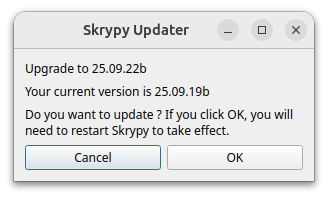
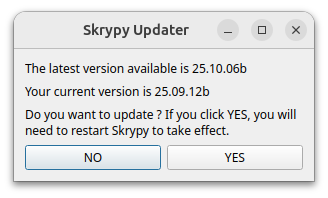
update software (see README)

diff --git a/docs/html/searchindex.js b/docs/html/searchindex.js
@@ -1,1 +1,1 @@
-Search.setIndex({"alltitles":{"(documentation still in development)":[[1,"documentation-still-in-development"]],"AFNI":[[3,"afni"]],"ANTs":[[3,"ants"]],"Alternative execution":[[10,"alternative-execution"]],"Beginner Skrypy tutorial":[[9,null]],"Blocks":[[1,null]],"Cluster (HPC)":[[2,null]],"Clusters configuration":[[2,"clusters-configuration"]],"Configuration example":[[3,"configuration-example"]],"Download the installer":[[4,"download-the-installer"]],"Environment variables":[[3,"environment-variables"]],"Execution on a cluster":[[10,"execution-on-a-cluster"]],"FSL":[[3,"fsl"]],"Features":[[1,"features"]],"Frozen Delights!":[[8,"id1"]],"Function parameters":[[0,"function-parameters"]],"Function return types":[[0,"function-return-types"]],"Getting started":[[1,null]],"How to create a block":[[0,null]],"How to install Python packages":[[5,null]],"How to install Skrypy":[[4,null]],"How to install dependencies":[[3,null]],"How to upgrade Skrypy":[[7,null]],"How to use":[[11,"how-to-use"]],"ImageJ":[[3,"imagej"]],"Install":[[1,null],[4,"install"]],"List of pre-installed Python packages":[[8,null]],"Local execution":[[10,"local-execution"]],"MRTrix3":[[3,"mrtrix3"]],"Matlab":[[3,"matlab"]],"Matlab engine":[[3,"matlab-engine"]],"Miniconda":[[6,"miniconda"]],"Python":[[6,"python"]],"RS2":[[3,"rs2"]],"Reference":[[1,null]],"Requirements":[[6,null]],"Running Skrypy":[[10,null]],"SPM (requires MATLAB)":[[3,"spm-requires-matlab"]],"SSHPass":[[6,"sshpass"]],"Shared memory for inter-process":[[11,null]],"Table of Contents":[[1,"table-of-contents"]],"Test":[[4,"test"]],"The options":[[0,"the-options"]],"The source codes":[[0,"the-source-codes"]],"Very simple example":[[9,"very-simple-example"]],"Welcome to the Skrypy documentation!":[[1,null]]},"docnames":["blocks/create_blocks","index","installation/cluster","installation/install_dependencies","installation/install_skrypy","installation/package_install","installation/requirements","installation/update_skrypy","reference/preinstalled_packages_list","start/demo_1","start/running_skrypy","start/shared_memory"],"envversion":{"sphinx":65,"sphinx.domains.c":3,"sphinx.domains.changeset":1,"sphinx.domains.citation":1,"sphinx.domains.cpp":9,"sphinx.domains.index":1,"sphinx.domains.javascript":3,"sphinx.domains.math":2,"sphinx.domains.python":4,"sphinx.domains.rst":2,"sphinx.domains.std":2},"filenames":["blocks/create_blocks.rst","index.rst","installation/cluster.rst","installation/install_dependencies.rst","installation/install_skrypy.rst","installation/package_install.rst","installation/requirements.rst","installation/update_skrypy.rst","reference/preinstalled_packages_list.rst","start/demo_1.rst","start/running_skrypy.rst","start/shared_memory.rst"],"indexentries":{},"objects":{},"objnames":{},"objtypes":{},"terms":{"":[2,4],"0":[0,3,8],"1":[0,2,3,8],"10":8,"10gb":4,"11":[3,8],"12":[4,6,8],"13":8,"14":8,"15":[3,8],"17":8,"19":8,"2":[2,3,5,8,11],"2020":8,"2025":8,"23":8,"24":3,"25":8,"26":8,"2d":1,"3":[3,4,6,8],"312":4,"3d":8,"4":8,"45":8,"46":8,"48":8,"5":[3,8],"51":8,"55":[0,8],"5d":1,"6":[6,8],"61":8,"7":[3,8],"8":[3,8],"88":8,"9":[3,8],"A":[0,2,5,7,8,10],"As":2,"At":4,"But":1,"For":[0,1,3],"If":[0,1,6],"In":[1,3,5,7,9],"It":[1,4],"Its":1,"On":5,"The":[2,3,8,11],"To":[3,4,5,6],"__init__":0,"abin":3,"about":4,"access":[2,8,11],"accord":3,"achieva":1,"activ":[2,3,5,6],"add":[0,1,3,6],"administr":2,"advanc":8,"afni_root":3,"after":11,"algebra":8,"algorithm":8,"alias":4,"all":[0,3,4,6,10],"allow":[1,2,6,10,11],"alreadi":5,"also":[0,1,2],"alwai":3,"an":[1,3,6,8,10],"anaconda":6,"analysi":8,"analyz":1,"annot":0,"anoth":3,"ant":1,"ants_root":3,"antspath":3,"antspyx":8,"api":8,"app":3,"applic":[1,3,4,6,8],"approach":1,"apt":[3,6],"ar":[0,2,4,5,11],"arrai":8,"array_bool":0,"array_float":0,"array_int":0,"array_path":0,"array_str":0,"art":8,"aspect":1,"astronomi":8,"astrophys":8,"astropi":8,"attr":8,"attribut":8,"avoid":11,"b":0,"backend":8,"base":3,"bash":6,"bashrc":[1,3,4],"been":[3,5],"befor":2,"begin":3,"beginn":1,"below":[3,9],"best":3,"between":[1,6,8,11],"bid":8,"bin":[3,5],"bind":8,"block":[9,10,11],"blosc2":[3,8],"boilerpl":8,"bool":0,"both":11,"bound":8,"box":2,"box_dialog_fil":9,"brain":8,"bruker":1,"build":[3,8],"bulk":1,"bvf":1,"c":[0,3,8],"ca":8,"calcul":1,"can":[0,1,2,6,9],"capabl":2,"care":3,"carefulli":6,"case":0,"cbf":1,"cd":[3,4,5,6],"chang":5,"chapter":4,"check":[2,6],"choic":1,"choos":[3,4,10],"chosen":6,"class":[0,8],"clean":1,"clearli":2,"click":7,"client":[1,11],"clone":3,"close":[3,6],"cloud":8,"cluster":[1,3,11],"code":[1,4,8],"com":[3,6],"combin":1,"combobox":1,"command":[2,8],"comment":0,"compat":8,"compil":8,"complet":8,"compress":8,"comput":8,"concaten":3,"conda":[2,3,6],"configur":[1,5],"conform":8,"connect":[2,9],"consol":11,"constant":1,"constraint":8,"contain":4,"convert":8,"copi":3,"core":8,"correct":6,"correspond":0,"cpu":[2,3],"cpuonli":3,"creat":[1,3,4],"cross":8,"cryptograph":8,"cryptographi":8,"ctrl":10,"ctype":8,"cuda":[3,8],"current":10,"curv":2,"cython":8,"data":[1,2,8,11],"databas":8,"dataset":8,"dcmstack":8,"deactiv":6,"deadsnak":6,"decompress":3,"deep":[1,8],"def":0,"default":0,"defin":0,"definit":0,"demo":9,"demo1":9,"depend":[1,2,6],"descript":8,"dev":3,"develop":8,"diagram":[1,2,10,11],"dicom":[1,8],"dict":0,"differ":[1,10,11],"diffus":1,"directli":0,"directori":[0,2,3,8],"dirsync":8,"displai":[2,11],"distribut":8,"do":1,"document":3,"doe":3,"don":6,"done":[1,2,11],"download":[3,8],"drag":9,"drive":8,"drop":9,"e":3,"easier":8,"easili":1,"edit":3,"editor":1,"eg":3,"egg":3,"einop":8,"element":1,"end":4,"engin":[1,6,8],"ensur":11,"enter":2,"entri":3,"env":3,"env_paramet":3,"environ":[1,2,4,6,11],"etc":[1,3,4],"even":1,"everi":1,"everyon":8,"exampl":[1,2],"except":0,"exchang":[1,11],"execut":[1,2],"exist":2,"exit":3,"expect":2,"explain":[0,10],"export":3,"extend":8,"extens":8,"extern":3,"fast":8,"field":2,"figur":2,"file":[0,1,3,4,8],"fileio":9,"fill":[1,2],"filter":1,"find":[0,3],"first":6,"fish":6,"flavour":8,"flexibl":8,"float":0,"folder":[0,3,4,8],"format":8,"forward":2,"found":[3,11],"framework":[1,8],"freesurf":3,"freesurfer_hom":3,"from":[0,3,8],"fsl":1,"fsl_root":3,"fslconf":3,"fsley":1,"function":1,"fundament":8,"g":3,"gdown":8,"gener":8,"get":[3,6,8],"git":3,"github":3,"give":3,"glnxa64":3,"go":[2,4,5,9],"googl":8,"gpu":8,"gputil":8,"graphic":[1,2],"guarante":2,"h5py":8,"ha":3,"have":[5,6],"hdf5":8,"help":[0,1,7,8],"helper":8,"here":[0,3],"hidden":3,"home":[3,4,6],"host":2,"hostnam":2,"how":[1,9,10],"hpc":1,"http":[3,6],"i":[0,1,2,3,4,6,8,11],"idea":3,"ignit":8,"imag":[1,2,8],"imagej":[1,8],"imagej_root":3,"img":0,"import":[1,8],"indic":10,"init":6,"insight":8,"instal":[2,6],"instruct":2,"int":0,"intend":1,"inter":1,"interact":[1,8],"interactivli":6,"interfac":8,"intuit":1,"itk":8,"its":2,"jar":3,"java":3,"jax":8,"joint":0,"json":3,"kept":8,"kera":8,"languag":8,"latest":[4,6],"launch":[4,5,9,10],"ld_library_path":3,"learn":[1,8],"least":[6,8],"lib":[3,8],"libeigen3":3,"libfftw3":3,"libgl1":3,"libpng":3,"libqt5opengl5":3,"libqt5svg5":3,"librari":[0,1,8,9,11],"libtiff5":3,"lifecycl":8,"lightn":8,"lightweight":8,"like":2,"line":[3,8],"linux":6,"list":[0,1,2,6],"list_bool":0,"list_float":0,"list_int":0,"list_path":0,"list_str":0,"littl":4,"llvm":8,"lmdb":8,"lmfit":8,"load":3,"local":[1,2,3],"locat":[0,3,4],"logic":1,"loop":1,"m":[3,10],"machin":[8,11],"magnet":8,"main":[3,4],"make":[8,9],"manag":[0,1,2,5],"mani":1,"matlab":[1,6],"matlab_root":3,"matlabcmd":3,"matlabengin":3,"matlabpath":3,"matlabroot":3,"matplotlib":8,"max":2,"maximum":2,"medic":8,"meet":8,"memori":1,"menu":[2,7],"mesa":3,"method":[5,6],"mine":8,"miniconda3":6,"minim":8,"miss":1,"mkdir":6,"mlflow":8,"mode":[1,2,10],"model":8,"modif":2,"modul":[0,8],"monitor":8,"more":[1,8],"mp4":9,"mrdegibbs3d":3,"mri":1,"mri_conv":3,"mrifilemanag":3,"mrifilepath":3,"mrimanag":3,"mrtrix":1,"mrtrix_root":3,"mrview":[1,3],"mss":8,"multi":8,"multipl":[8,10],"multiprocess":[1,2],"multithread":[1,10],"multitud":8,"must":[0,8],"myfunct":0,"n":3,"n4bia":1,"name":2,"nano":3,"ndarrai":8,"necessari":0,"need":3,"network":8,"neural":8,"neuroimag":8,"neurosci":8,"new":[0,2,8],"nibabel":8,"nifti":[1,8],"nilearn":8,"nipi":8,"nipyp":[0,1,8],"nitim":8,"niworkflow":8,"nodeeditor":0,"non":6,"nose":8,"note":8,"nrrd":8,"null":0,"numba":8,"number":2,"numpi":[4,8],"nvida":8,"nvidia":[3,8],"o":[1,3,4],"object":8,"observ":8,"offer":1,"ok":7,"olivi":3,"one":3,"onli":[3,11],"open":[0,2,4,5,7,8,10],"opencv":8,"oper":8,"option":2,"order":10,"other":[1,5],"otherwis":6,"out_result":0,"own":1,"packag":[1,3,4],"page":[0,9,10],"panda":8,"parallel":10,"paramet":[1,11],"particular":1,"password":[2,6],"path":[0,2,3,4],"pathdef":3,"pc":[2,10],"perform":[2,8],"philip":1,"pip":3,"pip3":5,"pipelin":[1,8,9],"plan":6,"platform":8,"plot":8,"plotter":8,"point":[3,8],"power":8,"ppa":6,"pre":[1,2],"primarili":1,"primit":8,"principl":3,"probe":9,"procedur":2,"process":[1,2,3,8,10],"processor":10,"product":8,"program":[1,3],"prompt_toolkit":8,"properli":4,"provid":[6,8,11],"psutil":8,"public":8,"pure":8,"purpos":1,"put":[2,3],"py":[0,3,4],"py3":3,"pybid":8,"pynrrd":8,"pyqt5":[1,8],"pytest":8,"python":[0,1,3,4],"python3":[3,4,6],"pytorch":[3,8],"pyvista":8,"pyvistaqt":8,"qt":8,"r":[3,10],"r2020a":3,"r2021a":3,"r2022b":3,"r2024b":3,"rai":8,"read":8,"read_roi":8,"recip":8,"recommend":6,"reduc":10,"redund":11,"registr":[1,2,8],"reload":4,"renam":1,"reopen":6,"repo":6,"repositori":6,"repres":0,"requir":[1,4,11],"reson":8,"restart":7,"result":[0,2,11],"return":2,"rich":1,"right":6,"rodent":3,"roi":8,"root":4,"root_of_skrypy_venv":0,"routin":1,"rss":[2,3],"run":[1,2,9,11],"same":[2,11],"save":[2,3,4],"scientif":8,"scikit":8,"scipi":8,"scp":1,"screenshot":8,"script":[1,8],"see":[2,3,4,9],"segment":[1,8],"select":6,"self":0,"sequenti":[1,10],"seri":8,"set":8,"set_path":3,"setup":[3,4],"sever":[1,2,10],"sh":[3,6],"share":1,"shared_memori":11,"shared_read":11,"sharedmemory_cr":11,"shell":2,"should":[2,6],"show":9,"simpl":[0,8],"simpleitk":8,"simplifi":8,"simul":1,"sip":8,"site":3,"skrypi":[0,2,3,5,6,11],"skrypy_312":[4,9],"skrypy_312_instal":4,"skrypy_312_packag":4,"skrypy_312_test":4,"skrypy_root":[3,5],"skrypy_venv":[3,4],"skrypy_venv_312":5,"skull":3,"skullstrip":1,"skype":9,"smi":8,"smooth":1,"softwar":1,"solut":3,"some":[5,6],"sourc":[2,3,4,5,8],"specif":[1,3],"specifi":[0,2,4],"spectra":1,"spinbox":1,"spm12":3,"spm_path":3,"squar":8,"ssh":6,"stack":8,"standard":10,"start":3,"state":8,"statist":8,"statu":8,"step":4,"store":0,"str":0,"strip":3,"structur":[1,8,9],"sudo":[3,6],"suffici":3,"support":[6,8],"sympi":8,"synchronis":8,"syntax":8,"system":8,"t":[6,10],"t1map":1,"t2map":1,"take":[3,4],"taken":0,"task":1,"temporari":[3,4],"tensorflow":[4,8],"tensorkit":8,"term":0,"termin":[3,4,5,6],"test":[1,2,6,8],"textedit":1,"textual":1,"thei":11,"them":11,"thi":[0,1,2,3,4,6,8,9,10,11],"time":[4,8,10],"timeseri":8,"titl":0,"tk":8,"tool":[1,8,9],"toolbox":3,"toolkit":8,"torch":8,"torchaudio":3,"torchvis":[3,8],"touch":1,"tractographi":1,"train":8,"trait":8,"transfer":[1,2],"transform":8,"treatment":2,"tree":8,"try":6,"tupl":0,"tutori":1,"txt":3,"type":[3,4,8],"ultra":8,"uncompress":3,"unif":1,"unittest":8,"univers":8,"unzip":[3,4],"up":4,"updat":[6,7],"upgrad":1,"us":[0,1,2,6,8,9,10],"user":[2,3,4,6],"usernam":3,"usr":3,"util":6,"valu":[0,9],"variabl":1,"vedo":8,"veri":1,"version":[3,4,5,6,8],"via":1,"video":[8,9],"virtual":[1,4,6],"virtualenv":1,"visual":[1,8],"volum":8,"vtk":8,"wai":[10,11],"wget":6,"when":[3,5],"where":[2,3,4],"which":[0,1,3,6,8],"window":[2,5,7,10],"within":11,"without":[1,8],"work":4,"workflow":8,"workspac":2,"wrapper":8,"write":8,"written":[0,4],"x":6,"x11":2,"x86_64":6,"yaml":0,"you":[0,1,2,6,9,10],"your":[1,2,3,4,5,6,10],"your_conda_path":3,"your_temporary_fold":3,"zip":[3,4,8],"zlib1g":3},"titles":["How to create a block","Welcome to the Skrypy documentation!","Cluster (HPC)","How to install dependencies","How to install Skrypy","How to install Python packages","Requirements","How to upgrade Skrypy","List of pre-installed Python packages","Beginner Skrypy tutorial","Running Skrypy","Shared memory for inter-process"],"titleterms":{"The":0,"afni":3,"altern":10,"ant":3,"beginn":9,"block":[0,1],"cluster":[2,10],"code":0,"configur":[2,3],"content":1,"creat":0,"delight":8,"depend":3,"develop":1,"document":1,"download":4,"engin":3,"environ":3,"exampl":[3,9],"execut":10,"featur":1,"frozen":8,"fsl":3,"function":0,"get":1,"how":[0,3,4,5,7,11],"hpc":2,"imagej":3,"instal":[1,3,4,5,8],"inter":11,"list":8,"local":10,"matlab":3,"memori":11,"miniconda":6,"mrtrix3":3,"option":0,"packag":[5,8],"paramet":0,"pre":8,"process":11,"python":[5,6,8],"refer":1,"requir":[3,6],"return":0,"rs2":3,"run":10,"share":11,"simpl":9,"skrypi":[1,4,7,9,10],"sourc":0,"spm":3,"sshpass":6,"start":1,"still":1,"tabl":1,"test":4,"tutori":9,"type":0,"upgrad":7,"us":11,"variabl":3,"veri":9,"welcom":1}})
+Search.setIndex({"alltitles":{"(documentation still in development)":[[1,"documentation-still-in-development"]],"AFNI":[[3,"afni"]],"ANTs":[[3,"ants"]],"Alternative execution":[[10,"alternative-execution"]],"Beginner Skrypy tutorial":[[9,null]],"Blocks":[[1,null]],"Cluster (HPC)":[[2,null]],"Clusters configuration":[[2,"clusters-configuration"]],"Configuration example":[[3,"configuration-example"]],"Download the installer":[[4,"download-the-installer"]],"Environment variables":[[3,"environment-variables"]],"Execution on a cluster":[[10,"execution-on-a-cluster"]],"FSL":[[3,"fsl"]],"Features":[[1,"features"]],"Frozen Delights!":[[8,"id1"]],"Function parameters":[[0,"function-parameters"]],"Function return types":[[0,"function-return-types"]],"Getting started":[[1,null]],"How to create a block":[[0,null]],"How to install Python packages":[[5,null]],"How to install Skrypy":[[4,null]],"How to install dependencies":[[3,null]],"How to upgrade Skrypy":[[7,null]],"How to use":[[11,"how-to-use"]],"ImageJ":[[3,"imagej"]],"Install":[[1,null],[4,"install"]],"List of pre-installed Python packages":[[8,null]],"Local execution":[[10,"local-execution"]],"MRTrix3":[[3,"mrtrix3"]],"Matlab":[[3,"matlab"]],"Matlab engine":[[3,"matlab-engine"]],"Miniconda":[[6,"miniconda"]],"Python":[[6,"python"]],"RS2":[[3,"rs2"]],"Reference":[[1,null]],"Requirements":[[6,null]],"Running Skrypy":[[10,null]],"SPM (requires MATLAB)":[[3,"spm-requires-matlab"]],"SSHPass":[[6,"sshpass"]],"Shared memory for inter-process":[[11,null]],"Table of Contents":[[1,"table-of-contents"]],"Test":[[4,"test"]],"The options":[[0,"the-options"]],"The source codes":[[0,"the-source-codes"]],"Very simple example":[[9,"very-simple-example"]],"Welcome to the Skrypy documentation!":[[1,null]]},"docnames":["blocks/create_blocks","index","installation/cluster","installation/install_dependencies","installation/install_skrypy","installation/package_install","installation/requirements","installation/update_skrypy","reference/preinstalled_packages_list","start/demo_1","start/running_skrypy","start/shared_memory"],"envversion":{"sphinx":65,"sphinx.domains.c":3,"sphinx.domains.changeset":1,"sphinx.domains.citation":1,"sphinx.domains.cpp":9,"sphinx.domains.index":1,"sphinx.domains.javascript":3,"sphinx.domains.math":2,"sphinx.domains.python":4,"sphinx.domains.rst":2,"sphinx.domains.std":2},"filenames":["blocks/create_blocks.rst","index.rst","installation/cluster.rst","installation/install_dependencies.rst","installation/install_skrypy.rst","installation/package_install.rst","installation/requirements.rst","installation/update_skrypy.rst","reference/preinstalled_packages_list.rst","start/demo_1.rst","start/running_skrypy.rst","start/shared_memory.rst"],"indexentries":{},"objects":{},"objnames":{},"objtypes":{},"terms":{"":[2,4],"0":[0,3,8],"1":[0,2,3,8],"10":8,"10gb":4,"11":[3,8],"12":[4,6,8],"13":8,"14":8,"15":[3,8],"17":8,"19":8,"2":[2,3,5,8,11],"2020":8,"2025":8,"23":8,"24":3,"25":8,"26":8,"2d":1,"3":[3,4,6,8],"312":4,"3d":8,"4":8,"45":8,"46":8,"48":8,"5":[3,8],"51":8,"55":[0,8],"5d":1,"6":[6,8],"61":8,"7":[3,8],"8":[3,8],"88":8,"9":[3,8],"A":[0,2,5,7,8,10],"As":2,"At":4,"But":1,"For":[0,1,3],"If":[0,1,6],"In":[1,3,5,7,9],"It":[1,4],"Its":1,"NO":7,"On":5,"The":[2,3,8,11],"To":[3,4,5,6],"__init__":0,"abin":3,"about":4,"access":[2,8,11],"accord":3,"achieva":1,"activ":[2,3,5,6],"add":[0,1,3,6],"administr":2,"advanc":8,"afni_root":3,"after":11,"algebra":8,"algorithm":8,"alias":4,"all":[0,3,4,6,10],"allow":[1,2,6,10,11],"alreadi":5,"also":[0,1,2],"alwai":3,"an":[1,3,6,8,10],"anaconda":6,"analysi":8,"analyz":1,"annot":0,"anoth":3,"ant":1,"ants_root":3,"antspath":3,"antspyx":8,"api":8,"app":3,"applic":[1,3,4,6,8],"approach":1,"apt":[3,6],"ar":[0,2,4,5,11],"arrai":8,"array_bool":0,"array_float":0,"array_int":0,"array_path":0,"array_str":0,"art":8,"aspect":1,"astronomi":8,"astrophys":8,"astropi":8,"attr":8,"attribut":8,"avoid":11,"b":0,"backend":8,"base":3,"bash":6,"bashrc":[1,3,4],"been":[3,5],"befor":2,"begin":3,"beginn":1,"below":[3,9],"best":3,"between":[1,6,8,11],"bid":8,"bin":[3,5],"bind":8,"block":[9,10,11],"blosc2":[3,8],"boilerpl":8,"bool":0,"both":11,"bound":8,"box":2,"box_dialog_fil":9,"brain":8,"bruker":1,"build":[3,8],"bulk":1,"bvf":1,"c":[0,3,8],"ca":8,"calcul":1,"can":[0,1,2,6,9],"capabl":2,"care":3,"carefulli":6,"case":0,"cbf":1,"cd":[3,4,5,6],"chang":5,"chapter":4,"check":[2,6],"choic":1,"choos":[3,4,10],"chosen":6,"class":[0,8],"clean":1,"clearli":2,"click":7,"client":[1,11],"clone":3,"close":[3,6],"cloud":8,"cluster":[1,3,11],"code":[1,4,8],"com":[3,6],"combin":1,"combobox":1,"command":[2,8],"comment":0,"compat":8,"compil":8,"complet":8,"compress":8,"comput":8,"concaten":3,"conda":[2,3,6],"configur":[1,5],"conform":8,"connect":[2,9],"consol":11,"constant":1,"constraint":8,"contain":4,"convert":8,"copi":3,"core":8,"correct":6,"correspond":0,"cpu":[2,3],"cpuonli":3,"creat":[1,3,4],"cross":8,"cryptograph":8,"cryptographi":8,"ctrl":10,"ctype":8,"cuda":[3,8],"current":10,"curv":2,"cython":8,"data":[1,2,8,11],"databas":8,"dataset":8,"dcmstack":8,"deactiv":6,"deadsnak":6,"decompress":3,"deep":[1,8],"def":0,"default":0,"defin":0,"definit":0,"demo":9,"demo1":9,"depend":[1,2,6],"descript":8,"dev":3,"develop":8,"diagram":[1,2,10,11],"dicom":[1,8],"dict":0,"differ":[1,10,11],"diffus":1,"directli":0,"directori":[0,2,3,8],"dirsync":8,"displai":[2,11],"distribut":8,"do":1,"document":3,"doe":3,"don":6,"done":[1,2,11],"download":[3,8],"drag":9,"drive":8,"drop":9,"e":3,"easier":8,"easili":1,"edit":3,"editor":1,"eg":3,"egg":3,"einop":8,"element":1,"end":4,"engin":[1,6,8],"ensur":11,"enter":2,"entri":3,"env":3,"env_paramet":3,"environ":[1,2,4,6,11],"etc":[1,3,4],"even":1,"everi":1,"everyon":8,"exampl":[1,2],"except":0,"exchang":[1,11],"execut":[1,2],"exist":2,"exit":3,"expect":2,"explain":[0,10],"export":3,"extend":8,"extens":8,"extern":3,"fast":8,"field":2,"figur":2,"file":[0,1,3,4,8],"fileio":9,"fill":[1,2],"filter":1,"find":[0,3],"first":6,"fish":6,"flavour":8,"flexibl":8,"float":0,"folder":[0,3,4,8],"format":8,"forward":2,"found":[3,11],"framework":[1,8],"freesurf":3,"freesurfer_hom":3,"from":[0,3,8],"fsl":1,"fsl_root":3,"fslconf":3,"fsley":1,"function":1,"fundament":8,"g":3,"gdown":8,"gener":8,"get":[3,6,8],"git":3,"github":3,"give":3,"glnxa64":3,"go":[2,4,5,9],"googl":8,"gpu":8,"gputil":8,"graphic":[1,2],"guarante":2,"h5py":8,"ha":3,"have":[5,6],"hdf5":8,"help":[0,1,7,8],"helper":8,"here":[0,3],"hidden":3,"home":[3,4,6],"host":2,"hostnam":2,"how":[1,9,10],"hpc":1,"http":[3,6],"i":[0,1,2,3,4,6,8,11],"idea":3,"ignit":8,"imag":[1,2,8],"imagej":[1,8],"imagej_root":3,"img":0,"import":[1,8],"indic":10,"init":6,"insight":8,"instal":[2,6],"instruct":2,"int":0,"intend":1,"inter":1,"interact":[1,8],"interactivli":6,"interfac":8,"intuit":1,"itk":8,"its":2,"jar":3,"java":3,"jax":8,"joint":0,"json":3,"kept":8,"kera":8,"languag":8,"latest":[4,6],"launch":[4,5,9,10],"ld_library_path":3,"learn":[1,8],"least":[6,8],"lib":[3,8],"libeigen3":3,"libfftw3":3,"libgl1":3,"libpng":3,"libqt5opengl5":3,"libqt5svg5":3,"librari":[0,1,8,9,11],"libtiff5":3,"lifecycl":8,"lightn":8,"lightweight":8,"like":2,"line":[3,8],"linux":6,"list":[0,1,2,6],"list_bool":0,"list_float":0,"list_int":0,"list_path":0,"list_str":0,"littl":4,"llvm":8,"lmdb":8,"lmfit":8,"load":3,"local":[1,2,3],"locat":[0,3,4],"logic":1,"loop":1,"m":[3,10],"machin":[8,11],"magnet":8,"main":[3,4],"make":[8,9],"manag":[0,1,2,5],"mani":1,"matlab":[1,6],"matlab_root":3,"matlabcmd":3,"matlabengin":3,"matlabpath":3,"matlabroot":3,"matplotlib":8,"max":2,"maximum":2,"medic":8,"meet":8,"memori":1,"menu":[2,7],"mesa":3,"method":[5,6],"mine":8,"miniconda3":6,"minim":8,"miss":1,"mkdir":6,"mlflow":8,"mode":[1,2,10],"model":8,"modif":2,"modul":[0,8],"monitor":8,"more":[1,8],"mp4":9,"mrdegibbs3d":3,"mri":1,"mri_conv":3,"mrifilemanag":3,"mrifilepath":3,"mrimanag":3,"mrtrix":1,"mrtrix_root":3,"mrview":[1,3],"mss":8,"multi":8,"multipl":[8,10],"multiprocess":[1,2],"multithread":[1,10],"multitud":8,"must":[0,8],"myfunct":0,"n":3,"n4bia":1,"name":2,"nano":3,"ndarrai":8,"necessari":0,"need":3,"network":8,"neural":8,"neuroimag":8,"neurosci":8,"new":[0,2,8],"nibabel":8,"nifti":[1,8],"nilearn":8,"nipi":8,"nipyp":[0,1,8],"nitim":8,"niworkflow":8,"nodeeditor":0,"non":6,"nose":8,"note":8,"nrrd":8,"null":0,"numba":8,"number":2,"numpi":[4,8],"nvida":8,"nvidia":[3,8],"o":[1,3,4],"object":8,"observ":8,"offer":1,"olivi":3,"one":3,"onli":[3,11],"open":[0,2,4,5,7,8,10],"opencv":8,"oper":8,"option":2,"order":10,"other":[1,5],"otherwis":6,"out_result":0,"own":1,"packag":[1,3,4],"page":[0,9,10],"panda":8,"parallel":10,"paramet":[1,11],"particular":1,"password":[2,6],"path":[0,2,3,4],"pathdef":3,"pc":[2,10],"perform":[2,8],"philip":1,"pip":3,"pip3":5,"pipelin":[1,8,9],"plan":6,"platform":8,"plot":8,"plotter":8,"point":[3,8],"power":8,"ppa":6,"pre":[1,2],"primarili":1,"primit":8,"principl":3,"probe":9,"procedur":2,"process":[1,2,3,8,10],"processor":10,"product":8,"program":[1,3],"prompt_toolkit":8,"properli":4,"provid":[6,8,11],"psutil":8,"public":8,"pure":8,"purpos":1,"put":[2,3],"py":[0,3,4],"py3":3,"pybid":8,"pynrrd":8,"pyqt5":[1,8],"pytest":8,"python":[0,1,3,4],"python3":[3,4,6],"pytorch":[3,8],"pyvista":8,"pyvistaqt":8,"qt":8,"r":[3,10],"r2020a":3,"r2021a":3,"r2022b":3,"r2024b":3,"rai":8,"read":8,"read_roi":8,"recip":8,"recommend":6,"reduc":10,"redund":11,"registr":[1,2,8],"reload":4,"renam":1,"reopen":6,"repo":6,"repositori":6,"repres":0,"requir":[1,4,11],"reson":8,"restart":7,"result":[0,2,11],"return":2,"rich":1,"right":6,"rodent":3,"roi":8,"root":4,"root_of_skrypy_venv":0,"routin":1,"rss":[2,3],"run":[1,2,9,11],"same":[2,11],"save":[2,3,4],"scientif":8,"scikit":8,"scipi":8,"scp":1,"screenshot":8,"script":[1,8],"see":[2,3,4,9],"segment":[1,8],"select":6,"self":0,"sequenti":[1,10],"seri":8,"set":8,"set_path":3,"setup":[3,4],"sever":[1,2,10],"sh":[3,6],"share":1,"shared_memori":11,"shared_read":11,"sharedmemory_cr":11,"shell":2,"should":[2,6],"show":9,"simpl":[0,8],"simpleitk":8,"simplifi":8,"simul":1,"sip":8,"site":3,"skrypi":[0,2,3,5,6,11],"skrypy_312":[4,9],"skrypy_312_instal":4,"skrypy_312_packag":4,"skrypy_312_test":4,"skrypy_root":[3,5],"skrypy_venv":[3,4],"skrypy_venv_312":5,"skull":3,"skullstrip":1,"skype":9,"smi":8,"smooth":1,"softwar":1,"solut":3,"some":[5,6],"sourc":[2,3,4,5,8],"specif":[1,3],"specifi":[0,2,4],"spectra":1,"spinbox":1,"spm12":3,"spm_path":3,"squar":8,"ssh":6,"stack":8,"standard":10,"start":3,"state":8,"statist":8,"statu":8,"step":4,"store":0,"str":0,"strip":3,"structur":[1,8,9],"sudo":[3,6],"suffici":3,"support":[6,8],"sympi":8,"synchronis":8,"syntax":8,"system":8,"t":[6,10],"t1map":1,"t2map":1,"take":[3,4],"taken":0,"task":1,"temporari":[3,4],"tensorflow":[4,8],"tensorkit":8,"term":0,"termin":[3,4,5,6],"test":[1,2,6,8],"textedit":1,"textual":1,"thei":11,"them":11,"thi":[0,1,2,3,4,6,8,9,10,11],"time":[4,8,10],"timeseri":8,"titl":0,"tk":8,"tool":[1,8,9],"toolbox":3,"toolkit":8,"torch":8,"torchaudio":3,"torchvis":[3,8],"touch":1,"tractographi":1,"train":8,"trait":8,"transfer":[1,2],"transform":8,"treatment":2,"tree":8,"try":6,"tupl":0,"tutori":1,"txt":3,"type":[3,4,8],"ultra":8,"uncompress":3,"unif":1,"unittest":8,"univers":8,"unzip":[3,4],"up":4,"updat":[6,7],"upgrad":1,"us":[0,1,2,6,8,9,10],"user":[2,3,4,6],"usernam":3,"usr":3,"util":6,"valu":[0,9],"variabl":1,"vedo":8,"veri":1,"version":[3,4,5,6,8],"via":1,"video":[8,9],"virtual":[1,4,6],"virtualenv":1,"visual":[1,8],"volum":8,"vtk":8,"wai":[10,11],"wget":6,"when":[3,5],"where":[2,3,4],"which":[0,1,3,6,8],"window":[2,5,7,10],"within":11,"without":[1,8],"work":4,"workflow":8,"workspac":2,"wrapper":8,"write":8,"written":[0,4],"x":6,"x11":2,"x86_64":6,"yaml":0,"ye":7,"you":[0,1,2,6,7,9,10],"your":[1,2,3,4,5,6,10],"your_conda_path":3,"your_temporary_fold":3,"zip":[3,4,8],"zlib1g":3},"titles":["How to create a block","Welcome to the Skrypy documentation!","Cluster (HPC)","How to install dependencies","How to install Skrypy","How to install Python packages","Requirements","How to upgrade Skrypy","List of pre-installed Python packages","Beginner Skrypy tutorial","Running Skrypy","Shared memory for inter-process"],"titleterms":{"The":0,"afni":3,"altern":10,"ant":3,"beginn":9,"block":[0,1],"cluster":[2,10],"code":0,"configur":[2,3],"content":1,"creat":0,"delight":8,"depend":3,"develop":1,"document":1,"download":4,"engin":3,"environ":3,"exampl":[3,9],"execut":10,"featur":1,"frozen":8,"fsl":3,"function":0,"get":1,"how":[0,3,4,5,7,11],"hpc":2,"imagej":3,"instal":[1,3,4,5,8],"inter":11,"list":8,"local":10,"matlab":3,"memori":11,"miniconda":6,"mrtrix3":3,"option":0,"packag":[5,8],"paramet":0,"pre":8,"process":11,"python":[5,6,8],"refer":1,"requir":[3,6],"return":0,"rs2":3,"run":10,"share":11,"simpl":9,"skrypi":[1,4,7,9,10],"sourc":0,"spm":3,"sshpass":6,"start":1,"still":1,"tabl":1,"test":4,"tutori":9,"type":0,"upgrad":7,"us":11,"variabl":3,"veri":9,"welcom":1}})

diff --git a/docs/html/installation/update_skrypy.html b/docs/html/installation/update_skrypy.html
@@ -108,7 +108,8 @@
 <div><p><a class="reference internal" href="../_images/update_skrypy_dialog.png"><img alt="(dialog update)" src="../_images/update_skrypy_dialog.png" style="width: 30%;" /></a></p>
 </div></blockquote>
 <ol class="arabic simple" start="3">
-<li><p>Click on Ok and restart Skrypy</p></li>
+<li><p>Click on YES or NO</p></li>
+<li><p>Restart skrypy if you clicked YES</p></li>
 </ol>
 </section>
 

diff --git a/skrypy/NodeEditor/python/update_skrypy.py b/skrypy/NodeEditor/python/update_skrypy.py
@@ -48,14 +48,14 @@ class skrypy_update(QDialog):
 
     def confirmation_dialog(self):
 
-        label1 = QLabel("Upgrade to " + self.version_new)
+        label1 = QLabel("The latest version available is " + self.version_new)
         label2 = QLabel("Your current version is " + self.version_current)
-        label3 = QLabel("Do you want to update ? If you click OK, you will need to restart Skrypy to take effect.")
+        label3 = QLabel("Do you want to update ? If you click YES, you will need to restart Skrypy to take effect.")
         label3.setWordWrap(True)
 
-        buttonCancel = QPushButton('Cancel', self)
+        buttonCancel = QPushButton('NO', self)
         buttonCancel.clicked.connect(self.close)
-        buttonOk = QPushButton('OK', self)
+        buttonOk = QPushButton('YES', self)
         buttonOk.clicked.connect(self.upgrading)
         hbox = QHBoxLayout()
         hbox.addWidget(buttonCancel)
@@ -71,7 +71,7 @@ class skrypy_update(QDialog):
 
     def upgrading(self):
         shutil.copytree(self.skrypy_new, self.skrypy_current, dirs_exist_ok=True)
-        self.answer = 'ok'
+        self.answer = 'YES'
         self.close()
 
     def getAnswer(self):

diff --git a/skrypy/NodeEditor/python/Diagram_Editor.py b/skrypy/NodeEditor/python/Diagram_Editor.py
@@ -5999,9 +5999,9 @@ class Menu(QMenuBar):
             webbrowser.open(tmp)
 
         elif tmpActText == 'Update Skrypy':
-            c = skrypy_update()
+            c = skrypy_update(self)
             c.exec_()
-            if c.getAnswer() == 'ok':
+            if c.getAnswer() == 'YES':
                 msg = QMessageBox()
                 msg.setWindowTitle("Update done...")
                 msg.setText("Please close and restart Skrypy")

diff --git a/setup.py b/setup.py
@@ -6,7 +6,7 @@
 # for details.
 ##########################################################################
 '''
-Skrypy 25.10.03b   setup   Oct. 03 2025
+Skrypy 25.10.06b   setup   Oct. 06 2025
 
 SYNOPSIS
     Install Skrypy in a virtual python environment (administration rights required).

diff --git a/README.md b/README.md
@@ -11,6 +11,11 @@ A documentation is available here : [https://montigno.github.io/skrypy](https://
 
 <p></p>
 
+	06/10/2025: version 25.10.06b
+	- improvement of codes
+
+<p></p>
+
 	03/10/2025: version 25.10.03b
 	- improvement and simplification of codes
 

diff --git a/docs/doc/installation/update_skrypy.rst b/docs/doc/installation/update_skrypy.rst
@@ -17,4 +17,6 @@ How to upgrade Skrypy
 
   |pic2|
 
-3. Click on Ok and restart Skrypy
+3. Click on YES or NO
+
+4. Restart skrypy if you clicked YES
